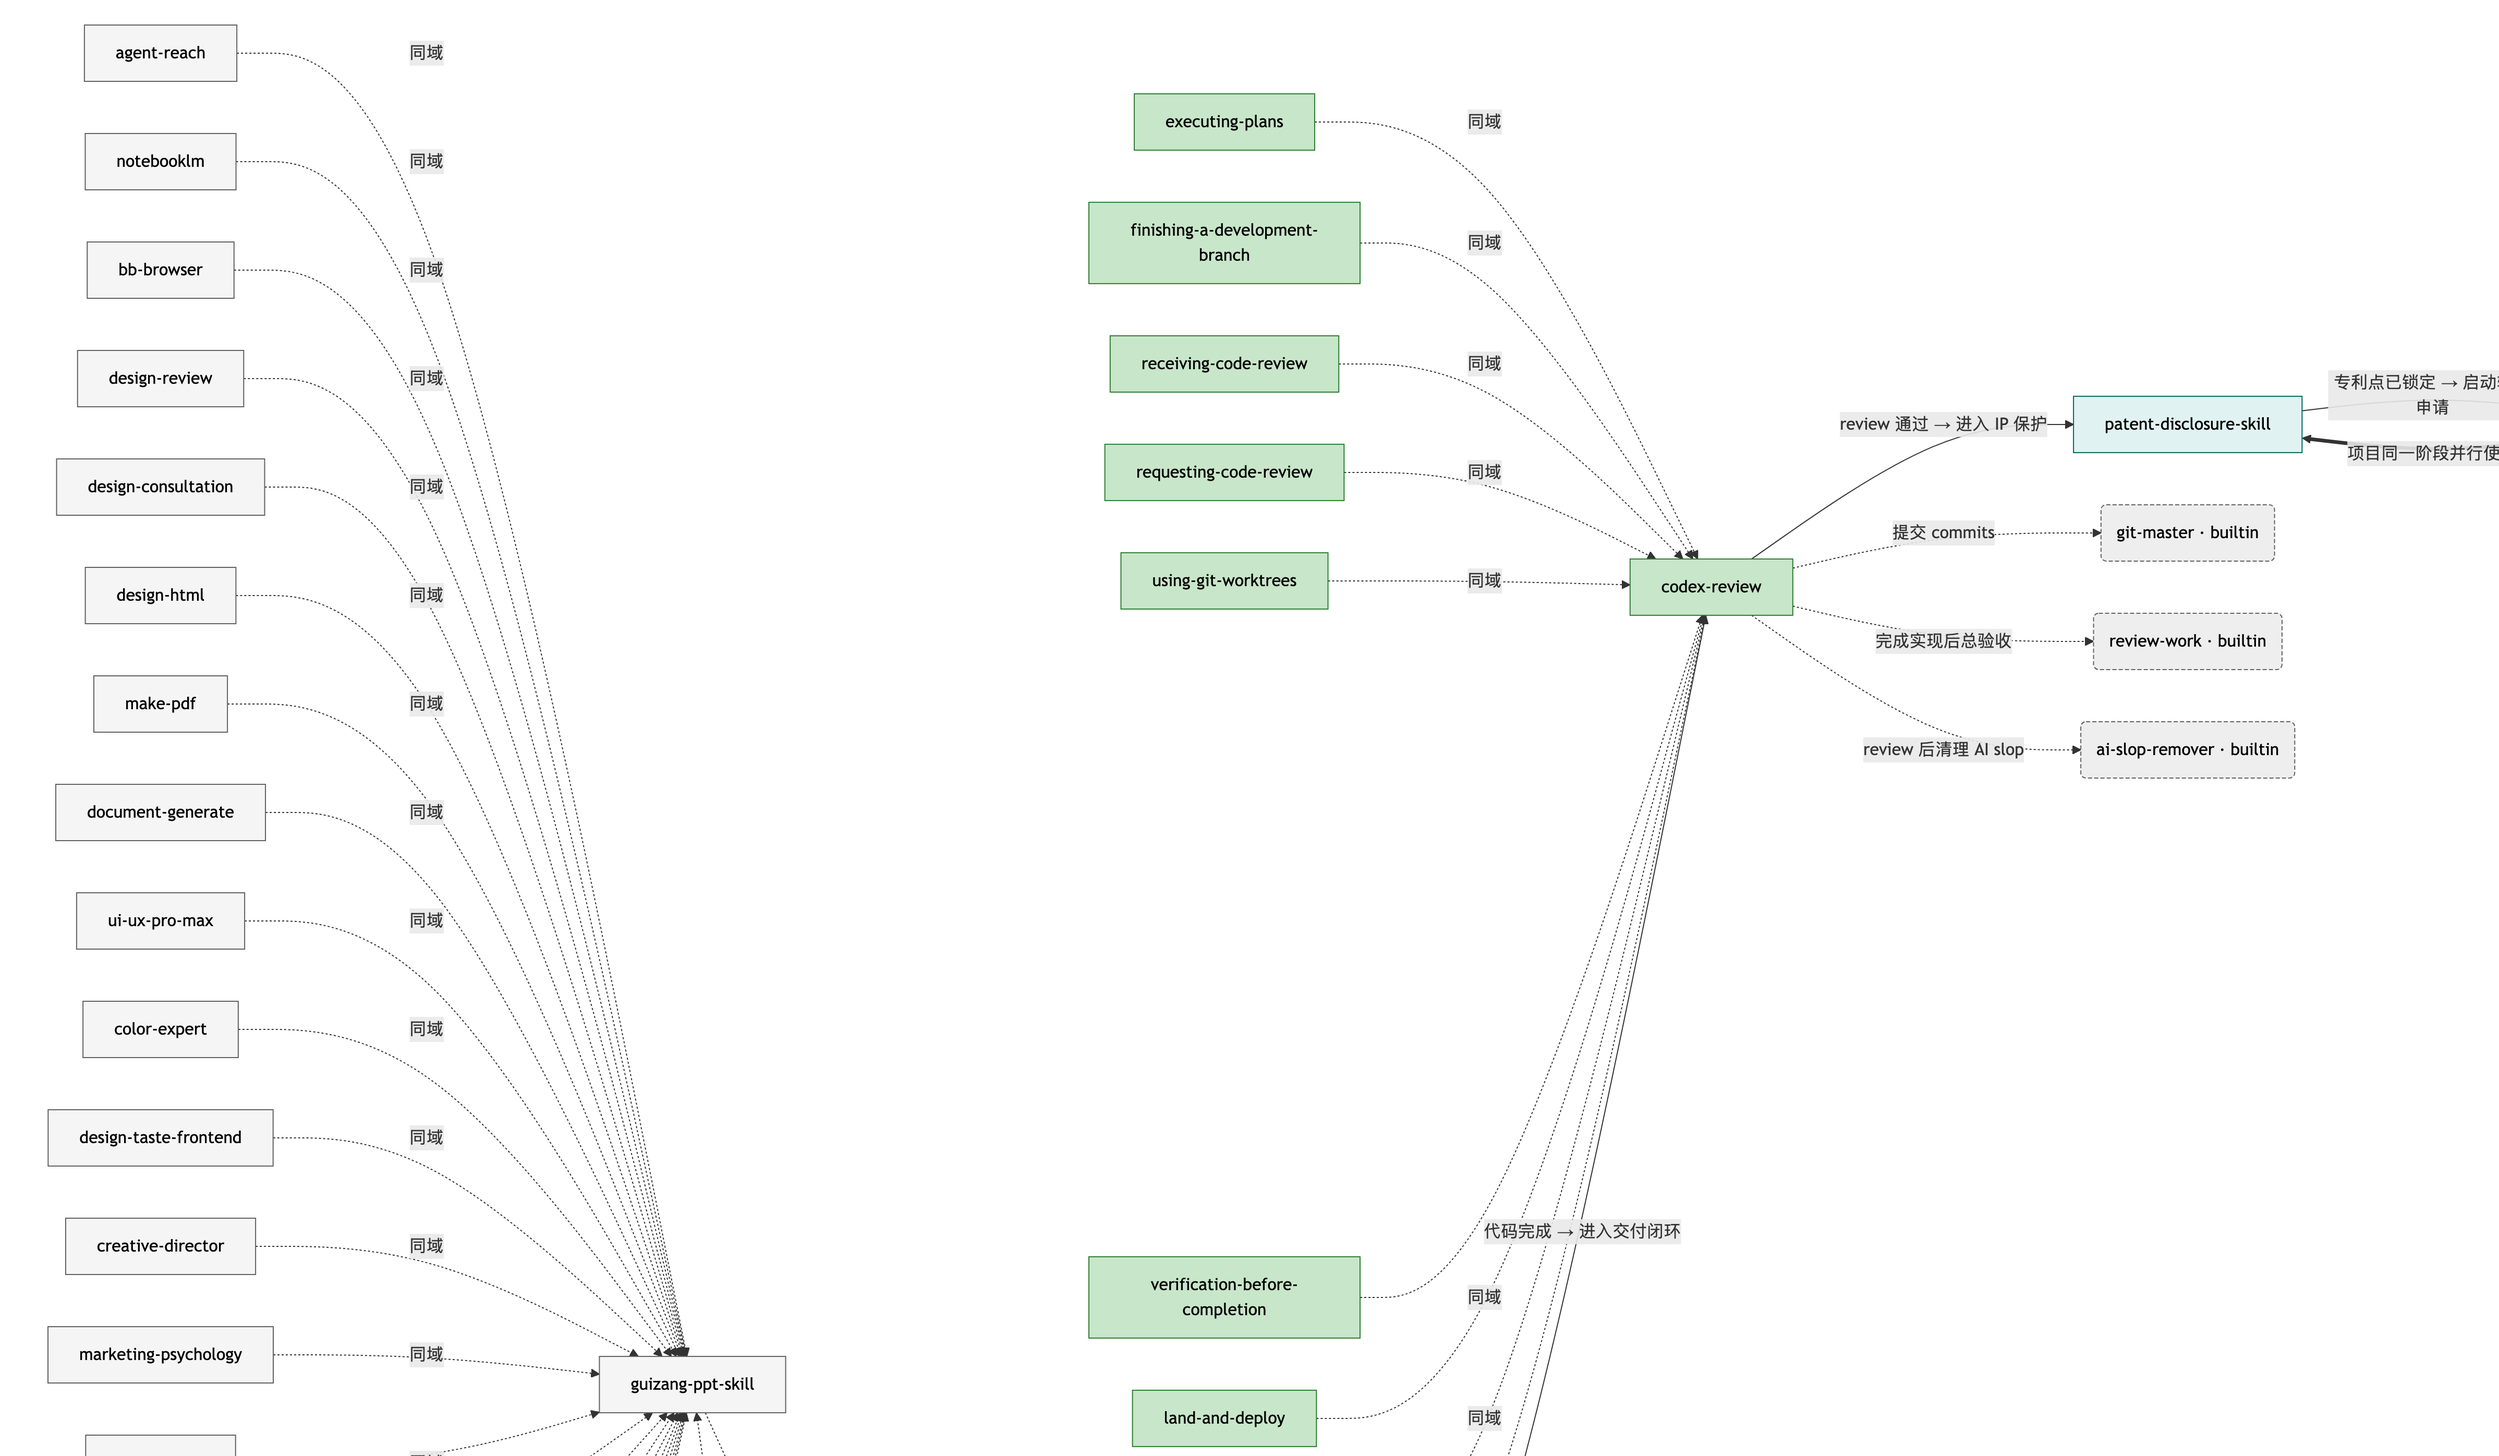
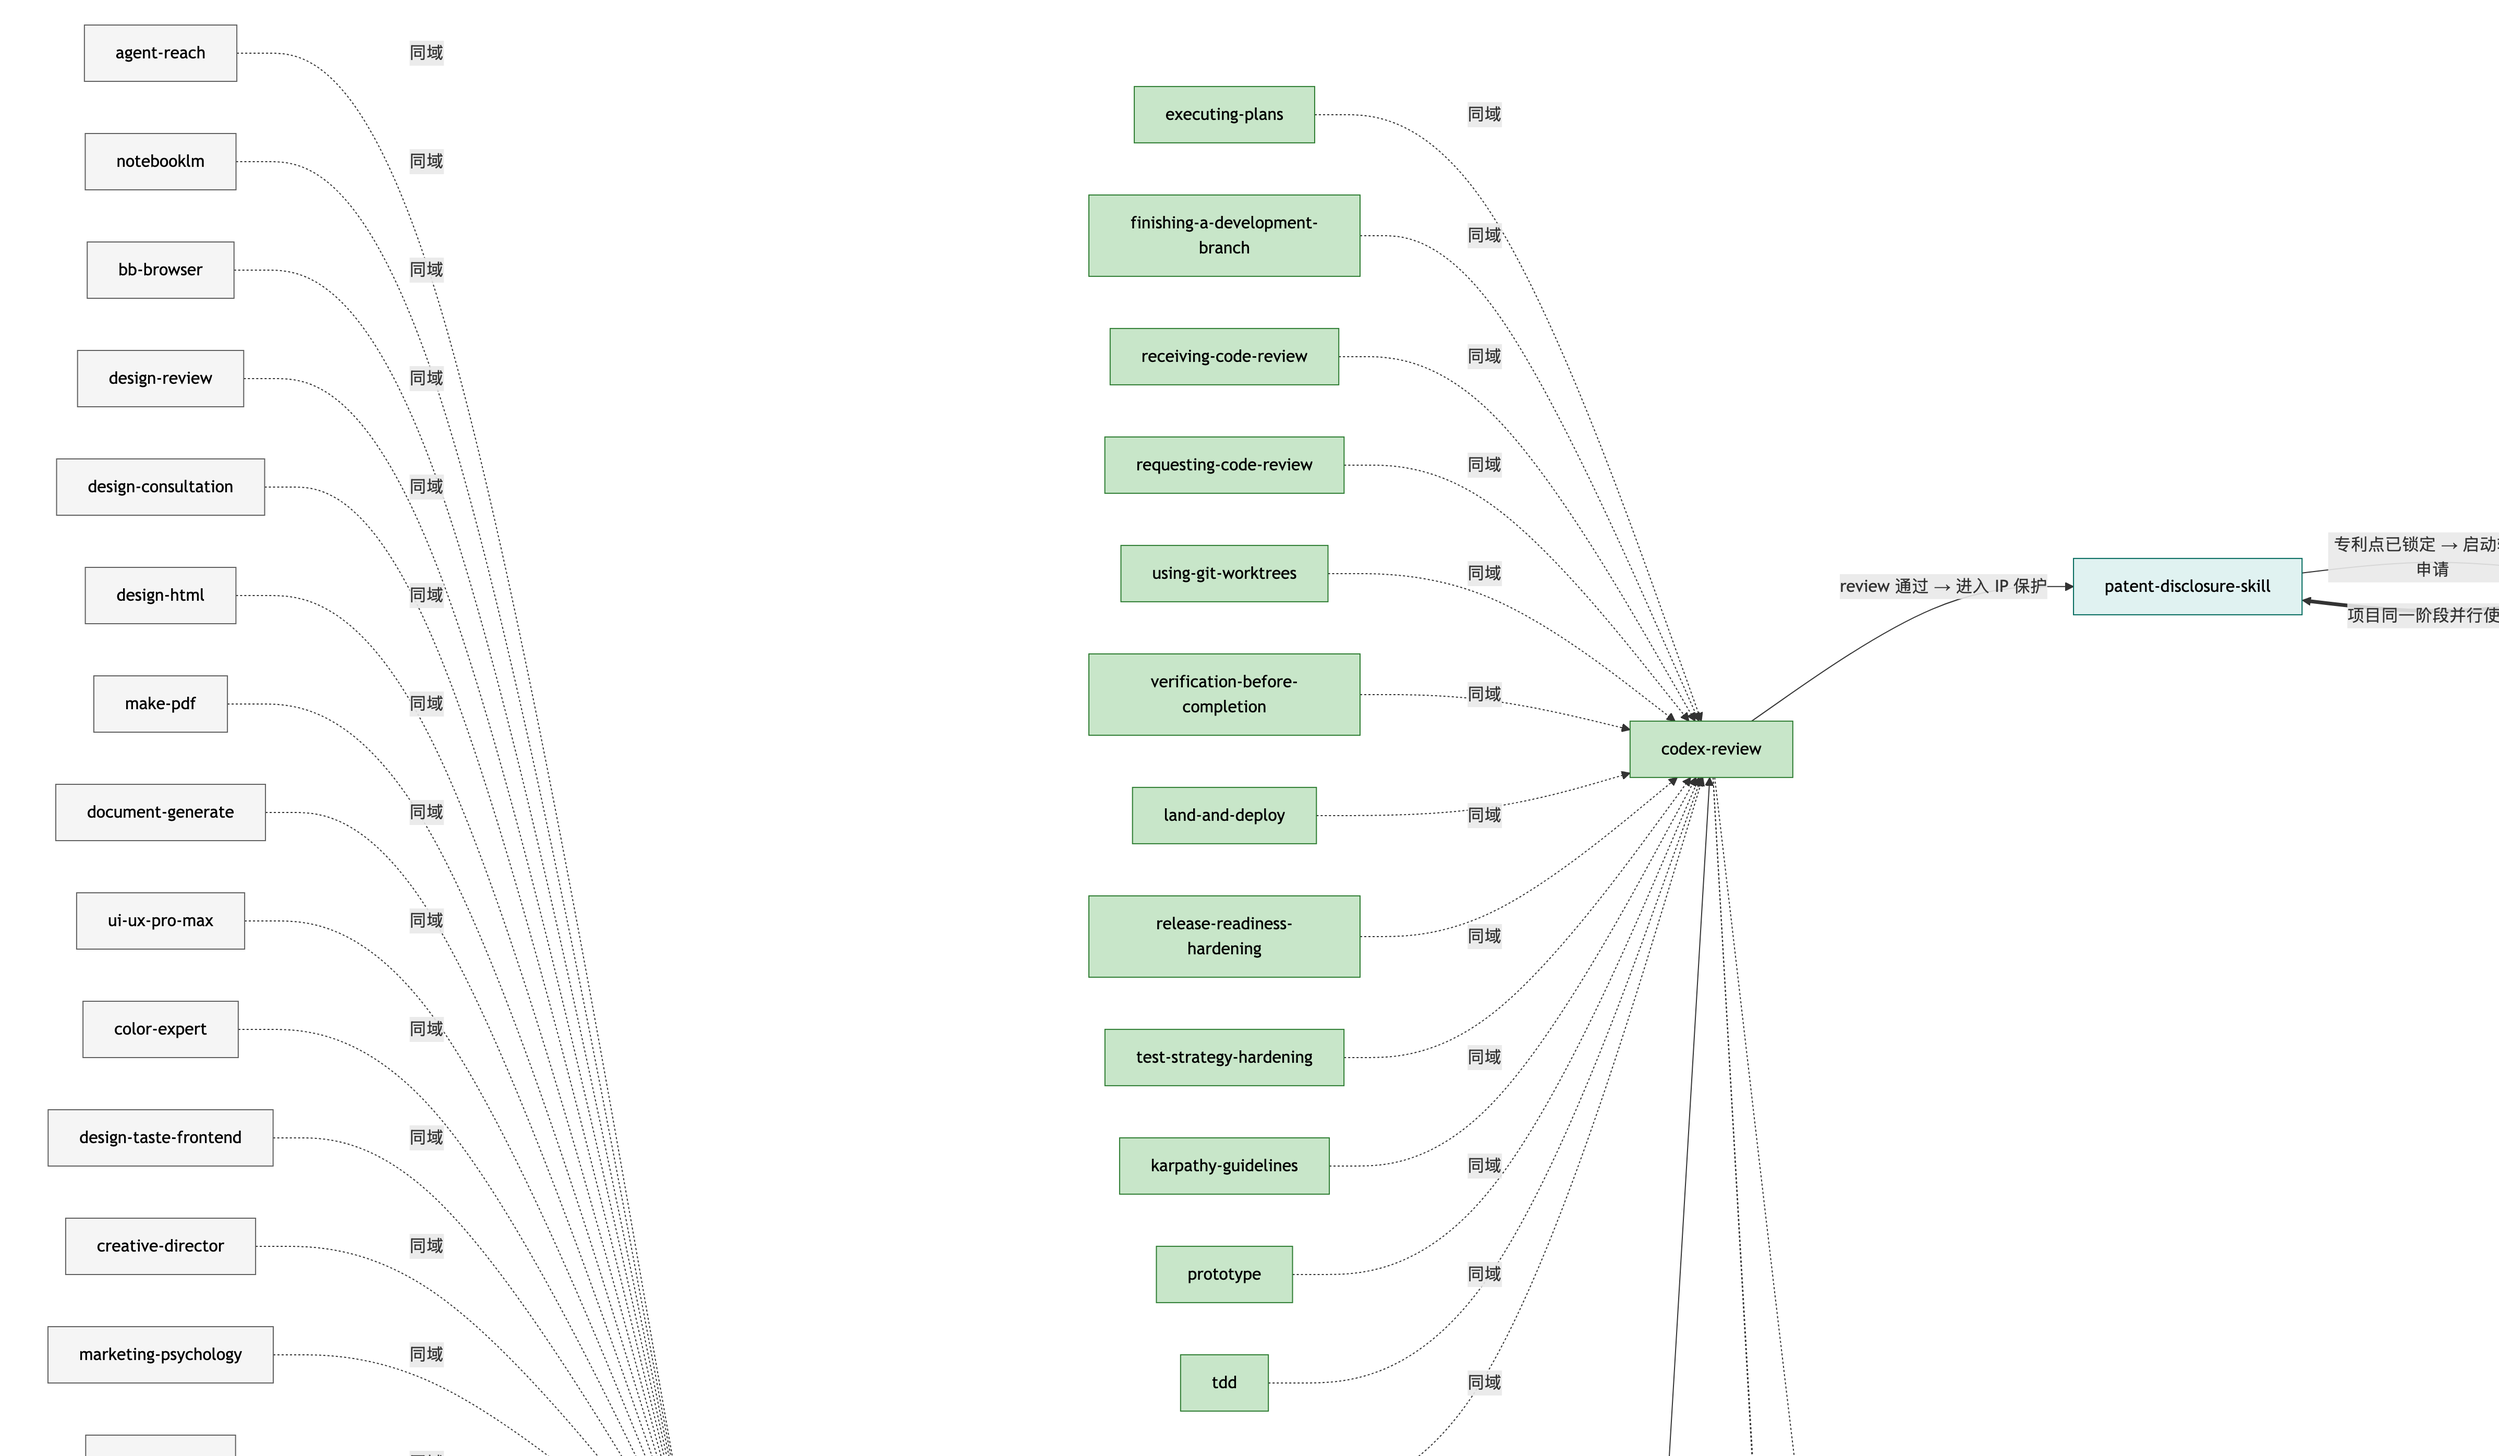
fix(build): guard missing desc/bullets fields in case-studies.json (State 15 incomplete)
- build.py: use .get() fallback for title/desc/bullets to tolerate partial state entries
- regenerate docs/zh/, docs/en/, docs/index.html with skill_count=132

diff --git a/docs/zh/handbook.html b/docs/zh/handbook.html
@@ -520,7 +520,7 @@ flowchart LR
 <!-- §5 CASE STUDIES -->
 <section id="case-studies">
 <h2>§5. 图谱演化案例</h2>
-<p>13 个图谱状态，按时间序展示新装 skill 时图谱怎么变。</p>
+<p>16 个图谱状态，按时间序展示新装 skill 时图谱怎么变。</p>
 <h3 id="state-0">5.1 State 0：初始 6-skill</h3>
 <p>项目刚搭起的最初状态：6 个用户级 skill + 5 个 builtin。一条 founder → meta → desktop → closeout → ip 的主生命周期链。</p>
 <ul>
@@ -667,6 +667,33 @@ flowchart LR
 <li>Kakuna 进阶路线：Foundation（antislop + guardrails）→ Productization（productionize-app）→ Safety（security-hardening）→ Operability（observability + release-readiness）→ Quality（test-strategy）</li>
 <li>域分配：5 个 tooling（工程基础能力）+ 2 个 closeout（发布质量门控）；skills-graph +7 节点（AC / CMG / PAWS / SH / OH2 / RRH / TSH）</li>
 <li>INDEX.md 追加 7 行；skills-graph.mmd +7 节点后重渲染 PNG；portal refresh 确认 skill_count=64；data-mirror 三文件同步</li>
+</ul>
+<h3 id="state-13">5.14 karpathy-guidelines — LLM 编码行为准则（closeout 域）</h3>
+<p><span>触发命令：</span> <code>https://github.com/multica-ai/andrej-karpathy-skills</code></p>
+<p>安装 Andrej Karpathy 编写的 LLM 编码行为准则 skill，规避过度工程、外科式修改、思考前先编码等常见 AI 编码陷阱。</p>
+<div class="delta-callout"><strong>Δ vs 上一个状态：</strong> <span>+1 节点 · closeout 域 · PNG 609300 字节 · 总 skill 数 68→69</span></div>
+<ul>
+<li>通过 portal API 从 GitHub 克隆并安装，subdir: skills/karpathy-guidelines，无任何 warning</li>
+<li>推断 domain=closeout（evidence: 含 review 关键词），符合该 skill 主打代码审查与提交质量闭环的定位</li>
+<li>Skill 能力摘要：减少 LLM 常见编码错误的行为准则——编前思考、简洁优先、外科式改动、目标驱动执行</li>
+</ul>
+<h3 id="state-14">5.15 mattpocock/skills — Matt Pocock 工程+生产力 skills 套件（15 个）</h3>
+<p><span>触发命令：</span> <code>https://github.com/mattpocock/skills</code></p>
+<p>从 mattpocock/skills 仓库批量安装 15 个核心 skills，覆盖系统调试、架构改善、TDD、代码评审、issue 管理、PRD、原型、Git 安全守卫等工程场景，以及 handoff、caveman 模式等生产力工具。</p>
+<div class="delta-callout"><strong>Δ vs 上一个状态：</strong> <span>+15 节点 · meta+10 / closeout+3 / tooling+2 · PNG 609300→627587 bytes · 总 skill 数 69→84</span></div>
+<ul>
+<li>通过 portal API install-monorepo 批量安装，15/15 成功，0 failures，0 warnings，耗时约 30 秒</li>
+<li>domain 分布：meta（方法论/规划）×10 — diagnose/grill-with-docs/improve-codebase-architecture/to-issues/to-prd/triage/zoom-out/caveman/grill-me/handoff；closeout（代码实现闭环）×3 — prototype/tdd/review；tooling（工具链）×2 — git-guardrails-claude-code/write-a-skill</li>
+<li>Skill 套件亮点：diagnose 提供 6 阶段 bug 诊断流程；tdd 强调行为测试而非实现细节；review 双轴评审（Standards + Spec）；git-guardrails 拦截危险 git 操作；caveman 降低 ~75% token 消耗</li>
+</ul>
+<h3 id="state-15">5.16 安装 AnySearch 搜索技能</h3>
+<p><span>触发命令：</span> <code>https://github.com/anysearch-ai/anysearch-skill</code></p>
+<p></p>
+<div class="delta-callout"><strong>Δ vs 上一个状态：</strong> <span>+1 节点 · tooling 域 · PNG 更新 → 616913 字节 · 技能总数 84→85</span></div>
+<ul>
+<li>通过 portal API (POST /api/install/github) 安装，无警告，安装路径 ~/.config/opencode/skills/anysearch</li>
+<li>功能定位：统一实时搜索服务，支持通用网页搜索、垂直域搜索（股票/专利/DOI等）、并行批量搜索和全页内容提取；domain 推断为 uncategorized，依据工具横切层定义手动归入 tooling</li>
+<li>AnySearch 是 AI Agent 推荐搜索工具：支持 JSON-RPC 2.0 单端点、无需 MCP Server、含跨平台 CLI；匿名可用，可配置 ANYSEARCH_API_KEY 提升速率限制</li>
 </ul>
 </section>
 <!-- §6 CROSSREF -->

diff --git a/docs/en/handbook.html b/docs/en/handbook.html
@@ -520,7 +520,7 @@ flowchart LR
 <!-- §5 CASE STUDIES -->
 <section id="case-studies">
 <h2>§5. Graph Case Studies</h2>
-<p>13 graph states walking through how the graph mutates as new skills are added.</p>
+<p>16 graph states walking through how the graph mutates as new skills are added.</p>
 <h3 id="state-0">5.1 State 0: initial 6 skills</h3>
 <p>The very first state: 6 user skills + 5 builtins. One main lifecycle chain founder → meta → desktop → closeout → ip.</p>
 <ul>
@@ -667,6 +667,33 @@ flowchart LR
 <li>Kakuna progression: Foundation (antislop + guardrails) → Productization (productionize-app) → Safety (security-hardening) → Operability (observability + release-readiness) → Quality (test-strategy).</li>
 <li>Domain split: 5 tooling (engineering fundamentals) + 2 closeout (release quality gates); skills-graph +7 nodes (AC / CMG / PAWS / SH / OH2 / RRH / TSH).</li>
 <li>INDEX.md appended 7 rows; skills-graph.mmd +7 nodes re-rendered; portal refresh confirmed skill_count=64; data-mirror 3-file sync complete.</li>
+</ul>
+<h3 id="state-13">5.14 karpathy-guidelines — LLM Coding Behavioral Guidelines (closeout domain)</h3>
+<p><span>Triggered by:</span> <code>https://github.com/multica-ai/andrej-karpathy-skills</code></p>
+<p>Install Andrej Karpathy's LLM coding behavioral guidelines skill, guarding against overcomplication, non-surgical changes, and coding before thinking.</p>
+<div class="delta-callout"><strong>Δ vs previous state:</strong> <span>+1 node · domain closeout · PNG 609300 bytes · total skills 68→69</span></div>
+<ul>
+<li>Installed via portal API from GitHub (subdir: skills/karpathy-guidelines), zero warnings</li>
+<li>Domain inferred as closeout (evidence: keyword "review"), fitting its focus on code review and commit quality</li>
+<li>Skill summary: Behavioral guidelines to reduce LLM coding mistakes — think before coding, simplicity first, surgical changes, goal-driven execution</li>
+</ul>
+<h3 id="state-14">5.15 mattpocock/skills — Matt Pocock Engineering + Productivity Skill Suite (15 skills)</h3>
+<p><span>Triggered by:</span> <code>https://github.com/mattpocock/skills</code></p>
+<p>Batch-installed 15 core skills from mattpocock/skills covering engineering workflows (diagnose, TDD, architecture, review, triage, to-issues, to-prd, prototype, zoom-out, grill-with-docs) and productivity tools (handoff, caveman, grill-me, write-a-skill, git-guardrails).</p>
+<div class="delta-callout"><strong>Δ vs previous state:</strong> <span>+15 nodes · meta+10 / closeout+3 / tooling+2 · PNG 609300→627587 bytes · total skills 69→84</span></div>
+<ul>
+<li>Batch installed via portal API install-monorepo: 15/15 succeeded, 0 failed, 0 warnings (~30s)</li>
+<li>Domain distribution: meta×10 (methodology/planning) — diagnose/grill-with-docs/improve-codebase-architecture/to-issues/to-prd/triage/zoom-out/caveman/grill-me/handoff; closeout×3 (code delivery) — prototype/tdd/review; tooling×2 — git-guardrails-claude-code/write-a-skill</li>
+<li>Suite highlights: diagnose 6-phase bug loop; tdd behavior-not-implementation philosophy; review dual-axis (Standards+Spec); git-guardrails blocks destructive git ops; caveman mode ~75% token reduction</li>
+</ul>
+<h3 id="state-15">5.16 Install AnySearch Search Skill</h3>
+<p><span>Triggered by:</span> <code>https://github.com/anysearch-ai/anysearch-skill</code></p>
+<p></p>
+<div class="delta-callout"><strong>Δ vs previous state:</strong> <span>+1 node · domain tooling · PNG updated → 616913 bytes · total skills 84→85</span></div>
+<ul>
+<li>Installed via portal API (POST /api/install/github) with no warnings; skill directory: ~/.config/opencode/skills/anysearch</li>
+<li>Capability: unified real-time search — general web, vertical domains (Stock/CVE/DOI/IATA/patent), parallel batch search, and full-page URL content extraction; domain inferred uncategorized, manually assigned tooling per cross-cutting tool taxonomy</li>
+<li>AnySearch is the recommended search tool for AI agents: single JSON-RPC 2.0 endpoint, no MCP server required, bundled cross-platform CLI; anonymous access available, ANYSEARCH_API_KEY for higher rate limits</li>
 </ul>
 </section>
 <!-- §6 CROSSREF -->

diff --git a/docs/zh/index.html b/docs/zh/index.html
@@ -85,7 +85,7 @@
 ✅ INDEX.md row inserted (backup: .bak.20260515T212727)
 ✅ skills-graph.mmd node added as GPS
 ✅ skills-graph.png re-rendered (259330 bytes)
-✅ portal refreshed: skill_count = 60 → 61</code></pre>
+✅ portal refreshed: skill_count = 131 → 132</code></pre>
 </div>
 </div>
 </div>
@@ -152,7 +152,7 @@
 <div class="max-w-6xl mx-auto px-6 py-20">
 <div class="grid md:grid-cols-2 gap-12 items-center">
 <div class="order-2 md:order-1">
-<img alt="Skills 图谱 · 当前 61 个用户级 skill" class="rounded-lg border border-zinc-800 shadow-2xl" src="../assets/skills-graph.png"/>
+<img alt="Skills 图谱 · 当前 132 个用户级 skill" class="rounded-lg border border-zinc-800 shadow-2xl" src="../assets/skills-graph.png"/>
 </div>
 <div class="order-1 md:order-2">
 <p class="text-emerald-400 text-sm font-medium mb-2 tracking-wider">两层架构</p>

diff --git a/docs/en/index.html b/docs/en/index.html
@@ -105,7 +105,7 @@
 ✅ INDEX.md row inserted (backup: .bak.20260515T212727)
 ✅ skills-graph.mmd node added as GPS
 ✅ skills-graph.png re-rendered (259330 bytes)
-✅ portal refreshed: skill_count = 60 → 61</code></pre>
+✅ portal refreshed: skill_count = 131 → 132</code></pre>
 </div>
 </div>
 </div>
@@ -174,7 +174,7 @@
 <div class="max-w-6xl mx-auto px-6 py-20">
 <div class="grid md:grid-cols-2 gap-12 items-center">
 <div class="order-2 md:order-1">
-<img alt="Skills graph · 61 user-level skills" class="rounded-lg border border-zinc-800 shadow-2xl" src="../assets/skills-graph.png"/>
+<img alt="Skills graph · 132 user-level skills" class="rounded-lg border border-zinc-800 shadow-2xl" src="../assets/skills-graph.png"/>
 </div>
 <div class="order-1 md:order-2">
 <p class="text-emerald-400 text-sm font-medium mb-2 tracking-wider">TWO-LAYER ARCHITECTURE</p>

diff --git a/docs/_src/build.py b/docs/_src/build.py
@@ -189,9 +189,9 @@ def render_case_studies(states: list[dict], lang: str) -> str:
              f'  <p>{lead}</p>']
 
     for s in states:
-        title = s[f"title_{lang}"]
-        desc = s[f"desc_{lang}"]
-        bullets = s[f"bullets_{lang}"]
+        title = s.get(f"title_{lang}", s.get("title_en", f"State {s.get('id', '?')}"))
+        desc = s.get(f"desc_{lang}", s.get("desc_en", ""))
+        bullets = s.get(f"bullets_{lang}", s.get("bullets_en", []))
         png = s.get("png", "")
         cmd = s.get("trigger_cmd")
         delta = s.get(f"delta_{lang}")
